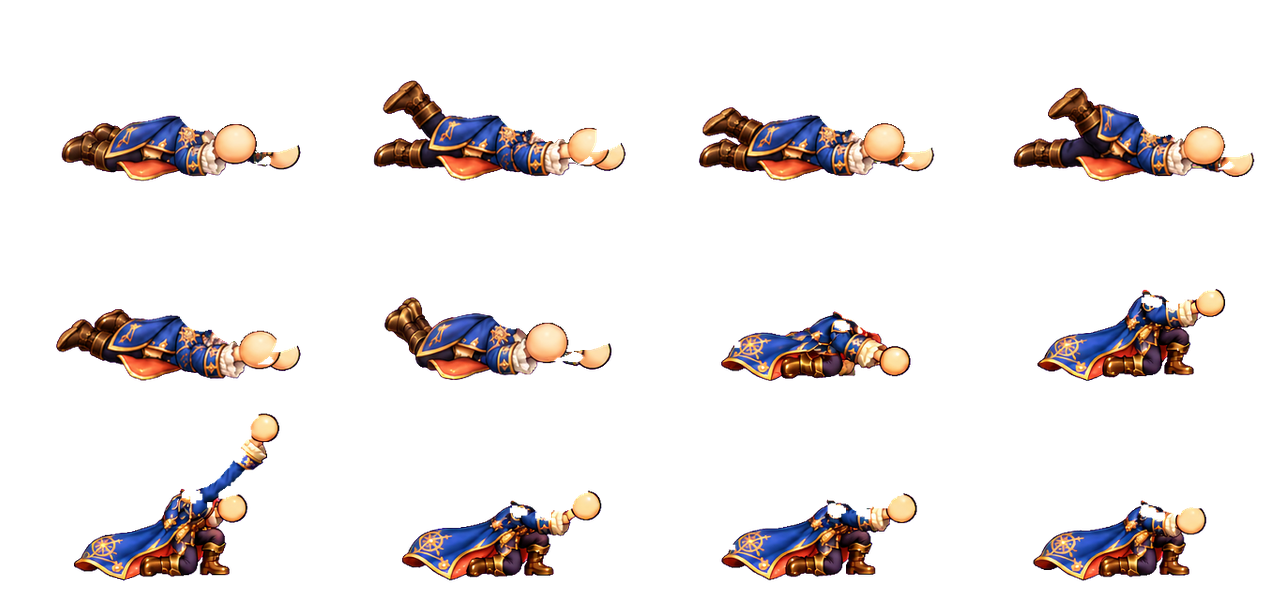
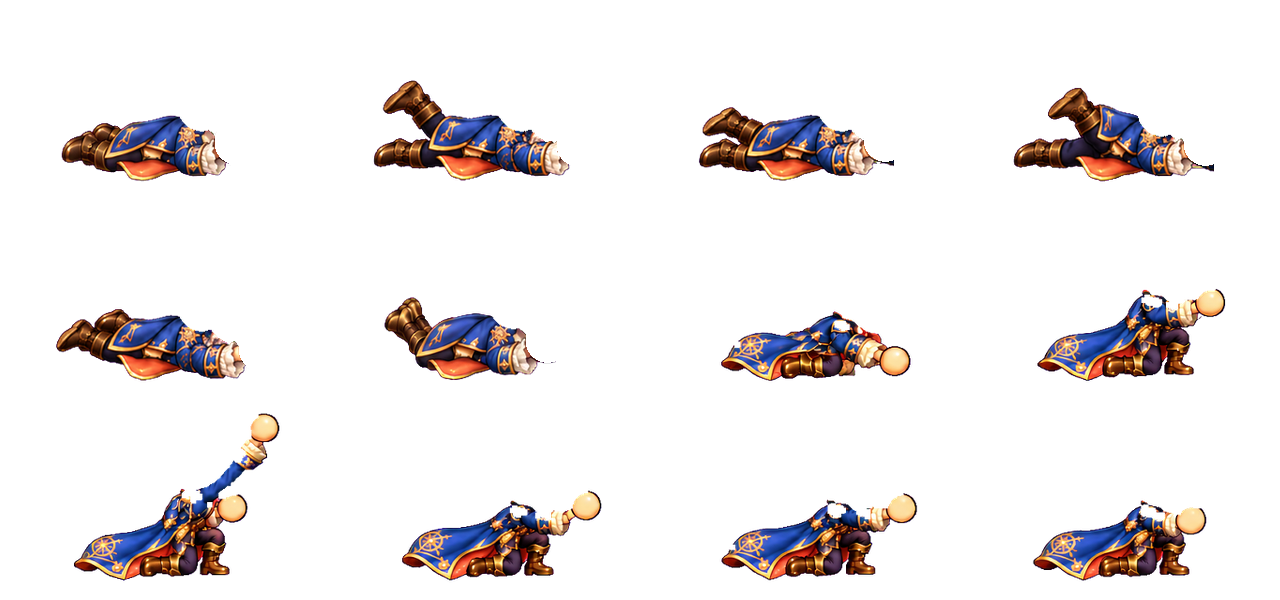
Prone fists: lift the painted fists out of the atlas, draw squared outlined fists (far one behind the head)
Claude-Session: https://claude.ai/code/session_01SNM3Fnyw111WXwJ74f5KjW

diff --git a/src/game/combatBody.ts b/src/game/combatBody.ts
@@ -15,7 +15,7 @@ import atlases from './combatAtlas.json';
  * action, the universal head where that painting expects it, the universal skin-colored fists and the
  * weapon strapped on the back. */
 type Point=readonly [number,number];
-interface AtlasEntry {path:string;frames:{head:[number,number];/** Arms and fists are painted in this frame (DDTank): the game draws no hands. */hands?:boolean;}[];/** The painted sleeve's cloth color, continued by the code-drawn forearm. */sleeve?:string;}
+interface AtlasEntry {path:string;frames:{head:[number,number];/** Arms and fists are painted in this frame (DDTank): the game draws no hands. */hands?:boolean;/** Lying: the painted fists lifted out of the painting ([x,y,radius], near first), drawn by the game so the far one sits behind the head. */lifted?:[number,number,number][];}[];/** The painted sleeve's cloth color, continued by the code-drawn forearm. */sleeve?:string;}
 const ATLASES=atlases as unknown as Record<string,AtlasEntry>;
 const tinted=new Map<string,HTMLCanvasElement>();
 
@@ -69,6 +69,8 @@ export function drawCombatBody(c:CanvasRenderingContext2D,eq:Equipment,head:Avat
  const atHead=(draw:()=>void)=>{c.save();c.translate(measured[0],measured[1]+breath);c.rotate(state.lively+hit*.05);c.scale(HEAD_SCALE,HEAD_SCALE);
   c.translate(-(HEAD_SILHOUETTE_CENTER[0]-625)*AVATAR_UNIT,-(HEAD_SILHOUETTE_CENTER[1]-1225)*AVATAR_UNIT);draw();c.restore();};
  // face: the head and the hair; then the outfit painting, then hat and glasses (DDTank's faceUp).
+ const lifted=entry.frames[index]?.lifted;
+ if(lifted)drawBlockFist(c,eq.skin,lifted[1],breath*.4,.92);
  atHead(()=>{drawHeadRearLayers(c,eq,state.time,state.pose,state.modular);drawPart(c,head);drawHeadLayers(c,eq,state.time,state.pose,state.modular,state.face,'hair');});
  if(drawnHands&&prone)arm(0,fist(0));
  if(drawnHands)arm(1,fist(1));
@@ -76,6 +78,7 @@ export function drawCombatBody(c:CanvasRenderingContext2D,eq:Equipment,head:Avat
  // where it shows past the face, so the body painting goes over the head as it is.
  c.drawImage(atlas,sx,sy,cw,ch,-ox/ppu,-oy/ppu+breath*.4,cw/ppu,ch/ppu);
  atHead(()=>drawHeadLayers(c,eq,state.time,state.pose,state.modular,state.face,'top'));
+ if(lifted)drawBlockFist(c,eq.skin,lifted[0],breath*.4,1);
  // The near fist goes over everything, under the chin while lying, like in DDTank.
  if(drawnHands&&prone)drawFist(c,eq.skin,fist(0),1);
  const front=fist(1);if(drawnHands)drawFist(c,eq.skin,front,1,prone?.8:1);
@@ -95,6 +98,20 @@ function drawFist(c:CanvasRenderingContext2D,skin:string|undefined,[x,y,angle]:F
  const glow=c.createRadialGradient(-w*.25,-h*.5,0,-w*.25,-h*.5,w*.6);glow.addColorStop(0,'rgba(255,246,236,.85)');glow.addColorStop(.5,'rgba(255,240,224,.35)');glow.addColorStop(1,'rgba(255,240,224,0)');
  c.fillStyle=glow;c.fillRect(-w,-h,w*2,h*2);c.restore();
  ball();c.strokeStyle='#120e09';c.lineWidth=1.25;c.stroke();
+ c.restore();
+}
+/** A lifted painted fist, like DDTank's lying hands: a slightly squared skin bun with a thin near-black
+ * outline all round, so it closes against the face with a line instead of a see-through gap. */
+function drawBlockFist(c:CanvasRenderingContext2D,skin:string|undefined,[x,y,r]:[number,number,number],lift:number,shade:number){
+ const w=r*1.04,h=r*.92,color=skin??BASE_SKIN;
+ c.save();c.translate(x,y+lift);if(shade<1)c.filter=`brightness(${shade})`;
+ const bun=()=>{c.beginPath();c.roundRect(-w,-h,w*2,h*2,r*.78);};
+ bun();c.fillStyle=color;c.fill();
+ c.save();bun();c.clip();
+ c.fillStyle=shadeColor(color,.9,.8,.73);c.beginPath();c.ellipse(0,h*1.15,w*1.4,h*.6,0,0,Math.PI*2);c.fill();
+ const glow=c.createRadialGradient(-w*.3,-h*.45,0,-w*.3,-h*.45,w*.75);glow.addColorStop(0,'rgba(255,246,236,.85)');glow.addColorStop(.5,'rgba(255,240,224,.3)');glow.addColorStop(1,'rgba(255,240,224,0)');
+ c.fillStyle=glow;c.fillRect(-w,-h,w*2,h*2);c.restore();
+ bun();c.strokeStyle='#120e09';c.lineWidth=.85;c.stroke();
  c.restore();
 }
 /** The arm under the painted body: the sleeve from the shoulder through the elbow (hidden where the outfit

diff --git a/scripts/build-combat-atlas.py b/scripts/build-combat-atlas.py
@@ -62,6 +62,68 @@ def greenness(rgb):
     return g - np.maximum(r, b)
 
 
+def components(mask):
+    """Connected pixel groups of a boolean mask, largest first (4-neighbour flood fill)."""
+    seen, groups = np.zeros_like(mask), []
+    for y, x in zip(*np.nonzero(mask)):
+        if seen[y, x]:
+            continue
+        stack, group = [(y, x)], []
+        seen[y, x] = True
+        while stack:
+            cy, cx = stack.pop()
+            group.append((cy, cx))
+            for ny, nx in ((cy + 1, cx), (cy - 1, cx), (cy, cx + 1), (cy, cx - 1)):
+                if 0 <= ny < mask.shape[0] and 0 <= nx < mask.shape[1] and mask[ny, nx] and not seen[ny, nx]:
+                    seen[ny, nx] = True
+                    stack.append((ny, nx))
+        groups.append(np.array(group))
+    return sorted(groups, key=len, reverse=True)
+
+
+def split_fists(atlas, index, head, spec):
+    """Lying frames: lifts the painted fists out of the body painting and returns where they were, so the
+    game draws them as clean outlined fists, the far one behind the head and the near one over the chin
+    (a painted fist cut along the green silhouette left a see-through gap next to every player's face).
+    The far sleeve's bits over the face go too. Returns [[x, y, r], ...] in avatar units, near fist first."""
+    ppu, (cw, ch), (ox, oy) = A['pixelsPerUnit'], A['cell'], A['origin']
+    box = ((index % A['columns']) * cw, (index // A['columns']) * ch)
+    cell = np.asarray(atlas.crop((*box, box[0] + cw, box[1] + ch))).astype(int).copy()
+    r, g, b, a = (cell[..., k].astype(float) for k in range(4))
+    hi, lo = np.maximum(np.maximum(r, g), b), np.minimum(np.minimum(r, g), b)
+    sat = (hi - lo) / np.maximum(hi, 1)
+    # Skin in any of its painted tones: warm, light, moderately saturated (not the gold trims or the white cuff).
+    skin = (a > 60) & (r >= g) & (g >= b - 4) & (hi > 150) & (sat > .14) & (sat < .5) & (r - g < 70)
+    dx, dy = head[0] - spec['head'][0], head[1] - spec['head'][1]
+    found = []
+    for fx, fy, _ in spec['fists']:
+        px, py = ox + (fx + dx) * ppu, oy + (fy + dy) * ppu
+        window = np.zeros(skin.shape, bool)
+        window[max(0, round(py - 30)):round(py + 30), max(0, round(px - 34)):round(px + 34)] = True
+        blobs = [blob for blob in components(skin & window) if len(blob) > 60]
+        if not blobs:
+            return None
+        found.append(min(blobs, key=lambda blob: np.hypot(blob[:, 1].mean() - px, blob[:, 0].mean() - py) - len(blob) / 20))
+    near, far = found
+    # Every fist is the template's size; its free edges (the bottom, and the right one of the far fist) place it.
+    radius = contract['fist']['size'] * .5 * ppu
+    wide = np.ptp(near[:, 1]) + 1 >= radius * 1.6
+    fists = [((near[:, 1].min() + near[:, 1].max()) / 2 if wide else near[:, 1].max() - radius, near[:, 0].max() - radius * .75),
+             (far[:, 1].max() - radius, far[:, 0].max() - radius * .9)]
+    yy, xx = np.mgrid[:ch, :cw]
+    for (x, y), blob in zip(fists, found):
+        mask = np.zeros(skin.shape, bool)
+        mask[blob[:, 0], blob[:, 1]] = True
+        cell[grow(mask, 5) | (np.hypot(xx - x, yy - y) < radius + 5), 3] = 0
+    # Lying, the whole body is behind (left of) the near fist: whatever of the far arm shows past it goes.
+    cell[xx > fists[0][0] + radius * .5, 3] = 0
+    for blob in components(cell[..., 3] > 0)[1:]:
+        if len(blob) < 60:
+            cell[blob[:, 0], blob[:, 1], 3] = 0
+    atlas.paste(Image.fromarray(cell.astype('uint8'), 'RGBA'), box)
+    return [[round((x - ox) / ppu, 2), round((y - oy) / ppu, 2), round(radius / ppu, 2)] for x, y in fists]
+
+
 issues, frames_meta, warnings = [], [None] * len(NAMES), []
 atlas = Image.new('RGBA', (A['columns'] * A['cell'][0], A['rows'] * A['cell'][1]), (0, 0, 0, 0))
 silhouette = None
@@ -182,6 +244,12 @@ for sheet, path in zip(contract['sheets'], inputs):
         atlas.alpha_composite(own, box)
         head_y = (hy - cy - ground) * scale / A['pixelsPerUnit']
         frames_meta[index] = {'head': [spec['head'][0], round(head_y, 2)], **({'hands': True} if hands else {})}
+        if hands and (name in ('rest', 'hurt') or name.startswith('crawl')):
+            fists = split_fists(atlas, index, frames_meta[index]['head'], spec)
+            if fists:
+                frames_meta[index]['lifted'] = fists
+            else:
+                warnings.append(f'{name}: punhos pintados não encontrados')
 
 def mannequin_size(body):
     """Width and height of the template's gray body in avatar units (same widths as make-combat-templates.py)."""

diff --git a/docs/combat-frames.md b/docs/combat-frames.md
@@ -1,6 +1,6 @@
 # Combate em quadros pintados (como no DDTank)
 
-Pedido do usuário em 18/10/2026, a partir do relatório `output/pdf/DDTank-rig-corpo-combate.pdf`: o corpo de combate funciona como o compositor de sprites do DDTank. Cada roupa traz as poses de combate **pintadas** em células compatíveis; o jogo só escolhe o quadro da ação atual e empilha por cima, no mesmo espaço, a cabeça universal, o cabelo, o chapéu, os óculos e a arma nas costas. Deitado para andar e mirar, **ajoelhado para arremessar** (nunca fica de pé), arma presa nas costas o tempo todo. Revisão de 18/10 à tarde (pedido do matheus): o corpo é pequeno como no DDTank, menor que a cabeça, e, desde a revisão de 18/10 à noite (pedido do matheus: "faça por spritesheet"), as **mãos são pintadas na prancha da roupa**, como no DDTank: braço com manga e punho, terminando num punho redondo sem dedos pintado sobre os discos cor de pele do molde; o jogo tinge a pele com a cor do jogador (`tintSkin`). Quadros com `hands: true` em `combatAtlas.json` não recebem o punho desenhado em código; atlas antigos (discos ciano) continuam com o punho e o antebraço desenhados pelo jogo. Deitado, o jogo recorta da pintura os dois punhos (centro medido pelo `build-combat-atlas.py`, `fists` no atlas): o da frente sobe para cobrir o queixo, por cima do rosto, e o de trás sobe atrás do rosto, aparecendo só a borda, para dar profundidade como no DDTank (`PRONE_FISTS` em `combatBody.ts`). Deitado, os dois punhos ficam lado a lado na frente do queixo, com a base na mesma linha, e o da frente é menor (cerca de 2/3), como medido na simulação do DDTank. O deitado segue as medidas da simulação do DDTank: cabeça parada, corpo curto e reto (cerca de meia cabeça aparece atrás dela), punhos sob o queixo, arma baixa atrás do quadril. Vale para todas as roupas, sem números por roupa.
+Pedido do usuário em 18/10/2026, a partir do relatório `output/pdf/DDTank-rig-corpo-combate.pdf`: o corpo de combate funciona como o compositor de sprites do DDTank. Cada roupa traz as poses de combate **pintadas** em células compatíveis; o jogo só escolhe o quadro da ação atual e empilha por cima, no mesmo espaço, a cabeça universal, o cabelo, o chapéu, os óculos e a arma nas costas. Deitado para andar e mirar, **ajoelhado para arremessar** (nunca fica de pé), arma presa nas costas o tempo todo. Revisão de 18/10 à tarde (pedido do matheus): o corpo é pequeno como no DDTank, menor que a cabeça, e, desde a revisão de 18/10 à noite (pedido do matheus: "faça por spritesheet"), as **mãos são pintadas na prancha da roupa**, como no DDTank: braço com manga e punho, terminando num punho redondo sem dedos pintado sobre os discos cor de pele do molde; o jogo tinge a pele com a cor do jogador (`tintSkin`). Quadros com `hands: true` em `combatAtlas.json` não recebem o punho desenhado em código; atlas antigos (discos ciano) continuam com o punho e o antebraço desenhados pelo jogo. Deitado (19/10, pedido do matheus), o `build-combat-atlas.py` tira da pintura os dois punhos pintados e o resto do braço de trás que aparecia sobre o rosto, e guarda onde estavam (`lifted` no atlas, tamanho do molde); o jogo desenha punhos levemente quadrados com contorno preto fino (`drawBlockFist`): o de trás antes da cabeça (só a borda aparece, sem vão transparente junto ao rosto) e o da frente por cima do queixo. Deitado, os dois punhos ficam lado a lado na frente do queixo, com a base na mesma linha, e o da frente é menor (cerca de 2/3), como medido na simulação do DDTank. O deitado segue as medidas da simulação do DDTank: cabeça parada, corpo curto e reto (cerca de meia cabeça aparece atrás dela), punhos sob o queixo, arma baixa atrás do quadril. Vale para todas as roupas, sem números por roupa.
 
 ## Quadros (`src/game/rig/combatFrames.json`)
 
